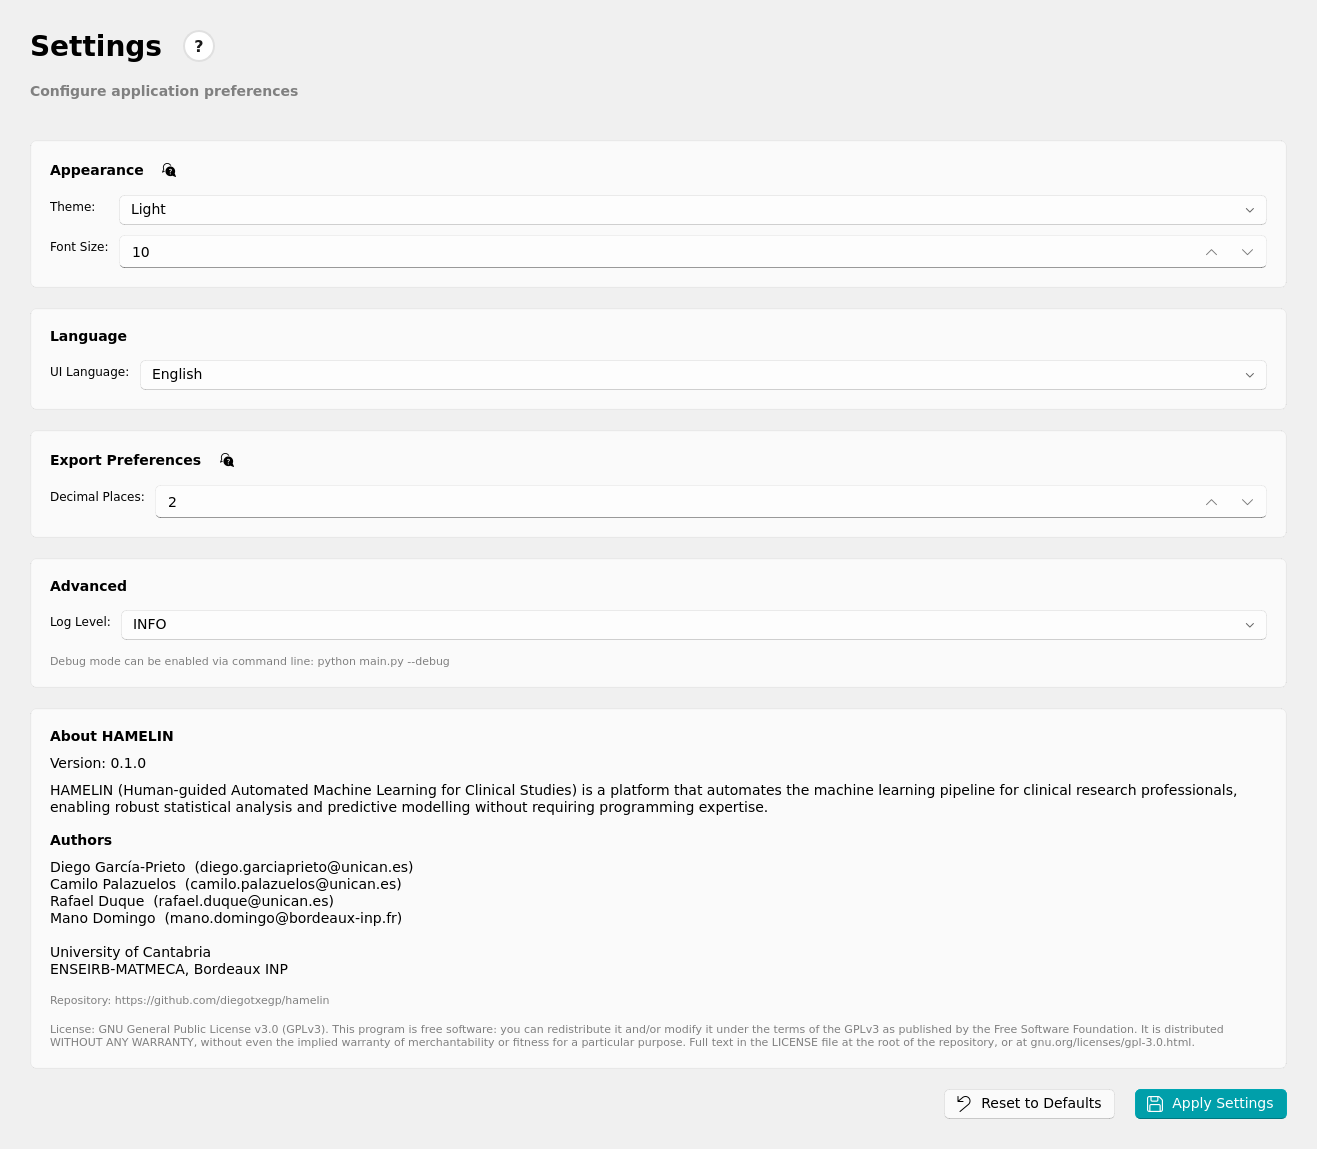
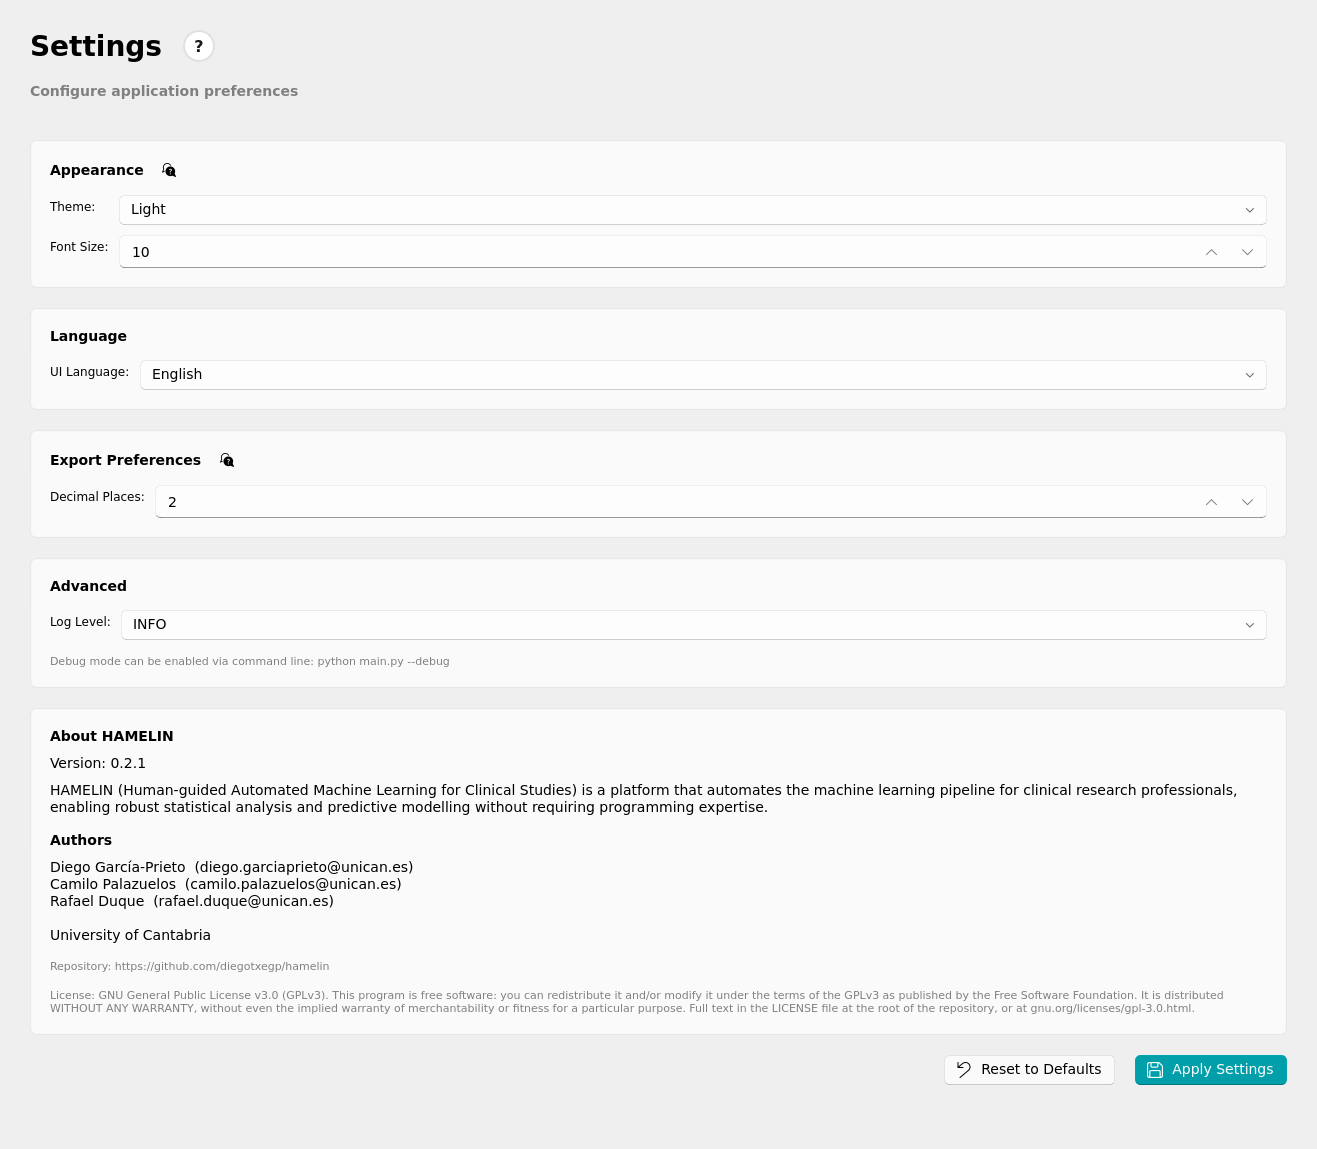
Remove Mano Domingo and the ENSEIRB-MATMECA affiliation; release 0.2.1

Changed region(s): [[0.0311, 0.792, 0.9962, 0.9748]]

diff --git a/src/hamelin/i18n/strings.py b/src/hamelin/i18n/strings.py
@@ -488,7 +488,6 @@ EN: dict[str, str] = {
         "modelling without requiring programming expertise.",
     
     "settings.about.university": "University of Cantabria",
-    "settings.about.enseirb": "ENSEIRB-MATMECA, Bordeaux INP",
     
     "settings.about.repository": "Repository: https://github.com/diegotxegp/hamelin",
 
@@ -1588,7 +1587,6 @@ ES: dict[str, str] = {
         "modelado predictivo sin requerir habilidades de programación.",
     
     "settings.about.university": "Universidad de Cantabria (España)",
-    "settings.about.enseirb": "ENSEIRB-MATMECA, Bordeaux INP (Francia)",
     
     "settings.about.repository": "Repositorio: https://github.com/diegotxegp/hamelin",
 

diff --git a/src/hamelin/view/pages/settings_page.py b/src/hamelin/view/pages/settings_page.py
@@ -229,10 +229,8 @@ class SettingsPage(QWidget):
         authors_label = BodyLabel(
             "Diego García-Prieto  (diego.garciaprieto@unican.es)\n"
             "Camilo Palazuelos  (camilo.palazuelos@unican.es)\n"
-            "Rafael Duque  (rafael.duque@unican.es)\n"
-            "Mano Domingo  (mano.domingo@bordeaux-inp.fr)\n\n"
-            f"{t('settings.about.university')}\n"
-            f"{t('settings.about.enseirb')}"
+            "Rafael Duque  (rafael.duque@unican.es)\n\n"
+            f"{t('settings.about.university')}"
         )
         about_layout.addWidget(authors_label)
 

diff --git a/src/hamelin/__init__.py b/src/hamelin/__init__.py
@@ -5,8 +5,8 @@ HAMELIN - Clinical Research AutoML Application
 A clinical research tool for data analysis and machine learning.
 """
 
-__version__ = "0.2.0"
-__author__ = "Diego García-Prieto, Camilo Palazuelos, Rafael Duque, Mano Domingo"
+__version__ = "0.2.1"
+__author__ = "Diego García-Prieto, Camilo Palazuelos, Rafael Duque"
 
 
 def main() -> None:

diff --git a/CHANGELOG.md b/CHANGELOG.md
@@ -4,7 +4,11 @@ All notable changes to Hamelin are listed here, newest first.
 The format follows [Keep a Changelog](https://keepachangelog.com/en/1.1.0/) and the
 version numbers follow [Semantic Versioning](https://semver.org/).
 
-## [Unreleased]
+## [0.2.1] - 2026-10-05
+
+### Changed
+- Removed Mano Domingo and the ENSEIRB-MATMECA / Bordeaux INP affiliation from the authors
+  (About section of Settings, README, `CITATION.cff`, package metadata and screenshots).
 
 ### Fixed
 - Training on a GPU that also drives the screen (the usual single-GPU computer) no longer
@@ -44,5 +48,6 @@ First public release (Linux x86-64 standalone executable, CPU only).
 - English and Spanish interface, light and dark themes, built-in help.
 - Per-model record of the settings, software versions, seed and dataset changes.
 
+[0.2.1]: https://github.com/diegotxegp/hamelin/releases/tag/v0.2.1
 [0.2.0]: https://github.com/diegotxegp/hamelin/releases/tag/v0.2.0
 [0.1.0]: https://github.com/diegotxegp/hamelin/releases/tag/v0.1.0

diff --git a/README.md b/README.md
@@ -183,7 +183,6 @@ A standalone executable can be built with PyInstaller using the provided `hameli
 - **Diego García-Prieto** — University of Cantabria — <diego.garciaprieto@unican.es>
 - **Camilo Palazuelos** — University of Cantabria — <camilo.palazuelos@unican.es>
 - **Rafael Duque** — University of Cantabria — <rafael.duque@unican.es>
-- **Mano Domingo** — ENSEIRB-MATMECA, Bordeaux INP — <mano.domingo@bordeaux-inp.fr>
 
 ## License
 
